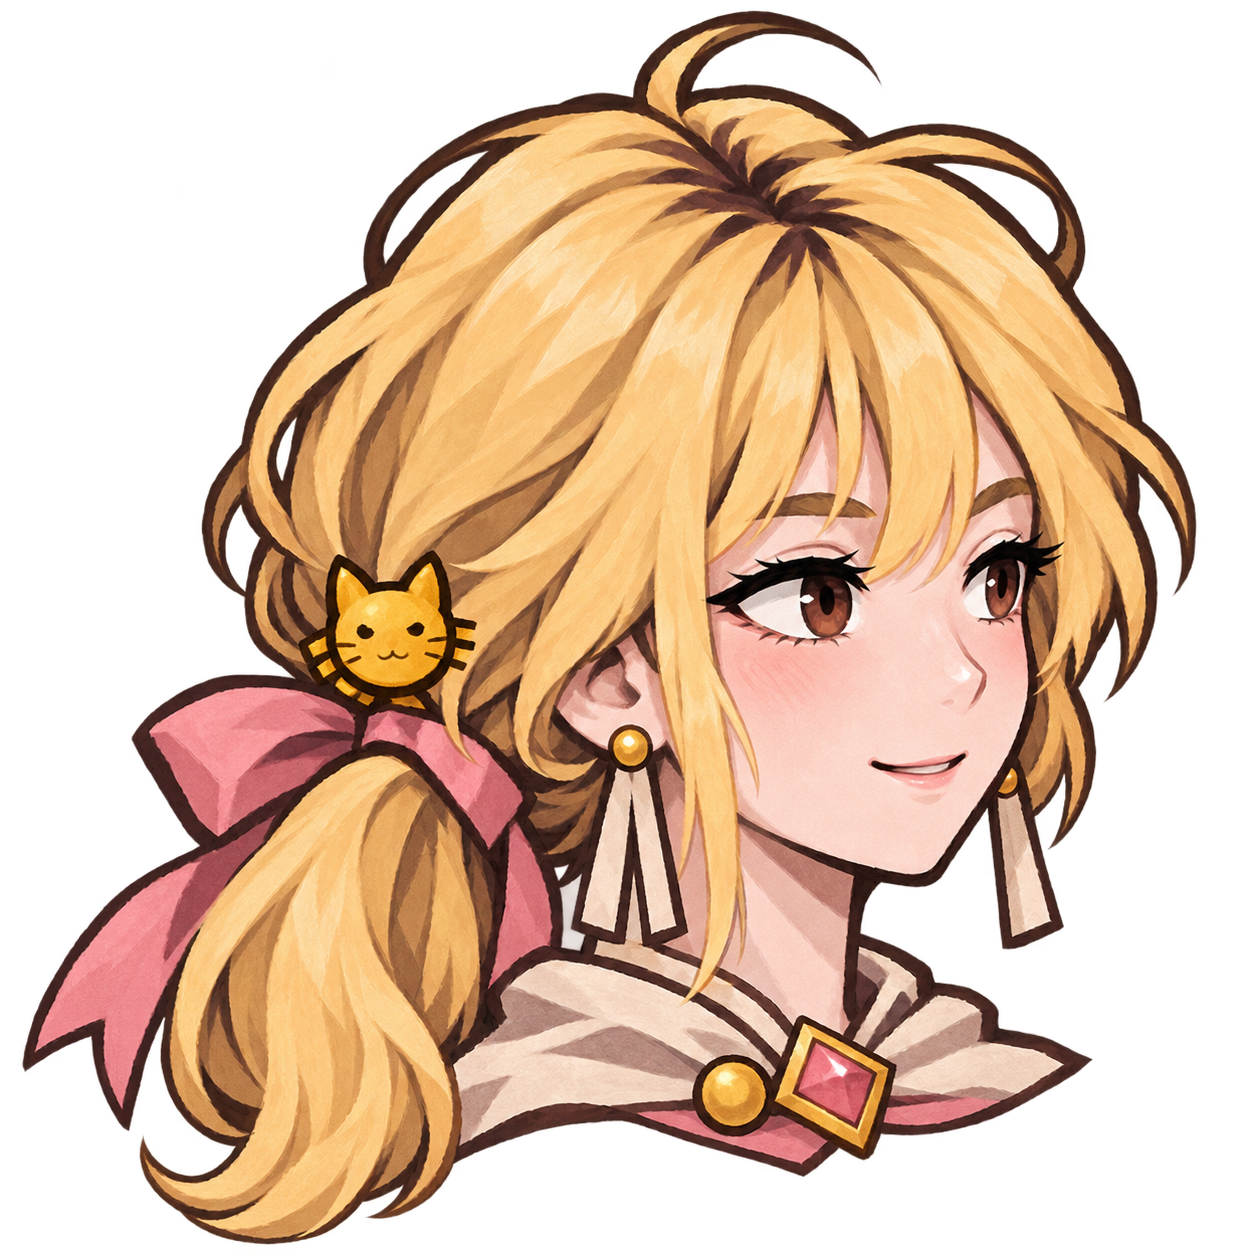
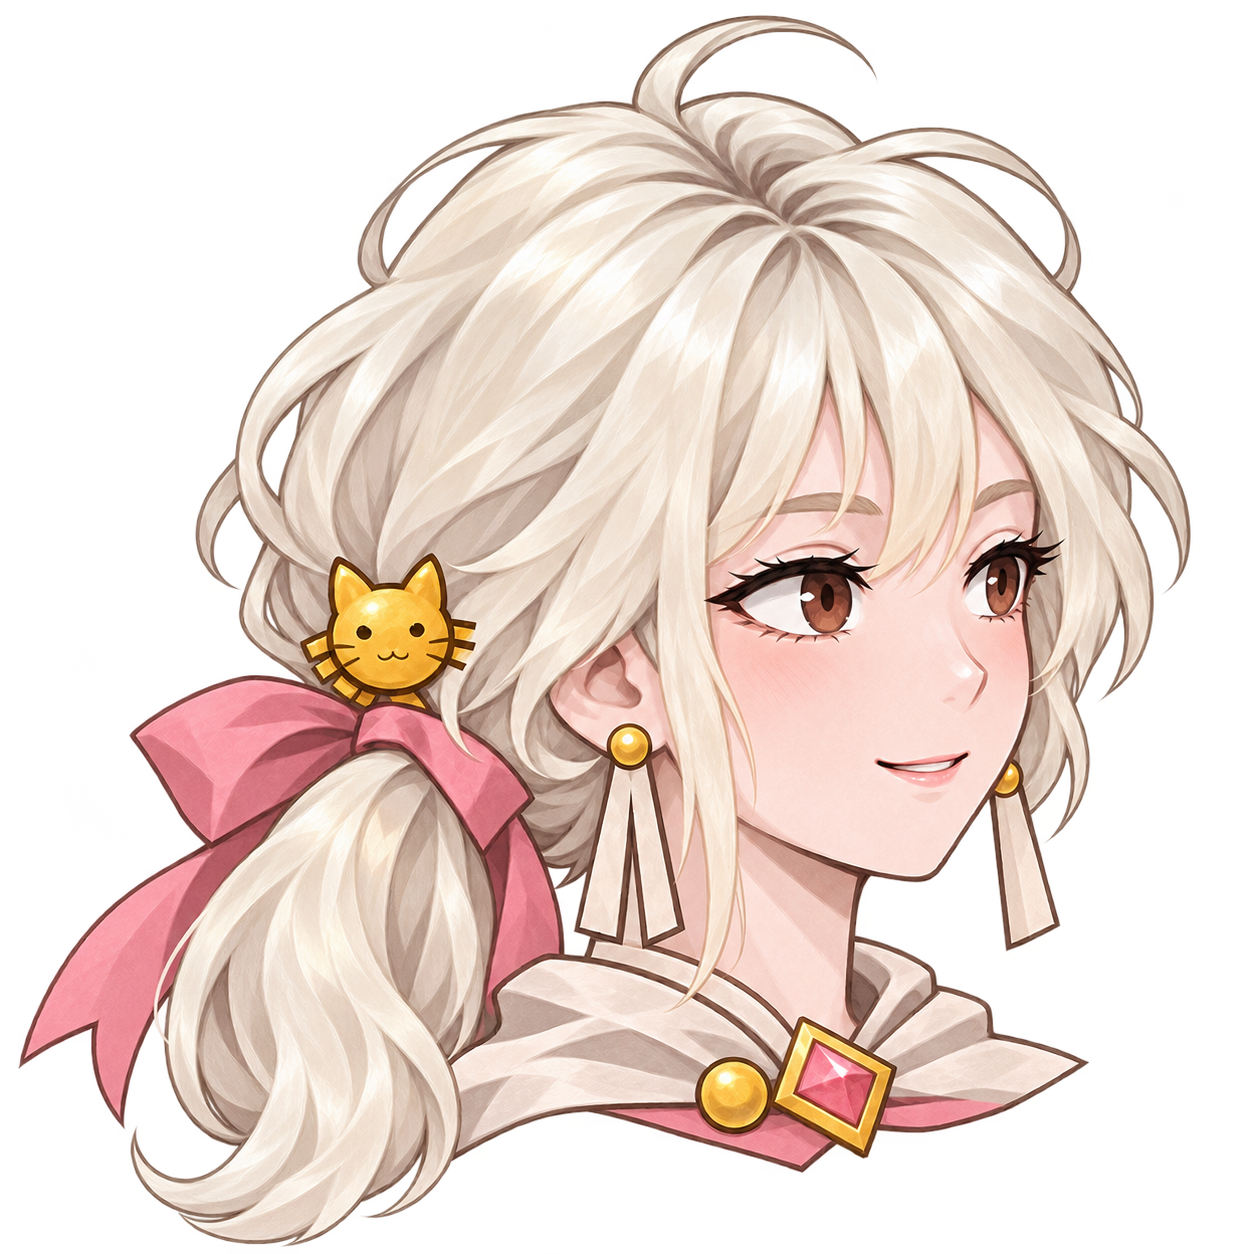
Polish platinum character art and add flying fireball effect

diff --git a/ShenshenCode/Visuals/LittleFireballVfx.cs b/ShenshenCode/Visuals/LittleFireballVfx.cs
@@ -1,0 +1,135 @@
+using System.Text.Json;
+using Godot;
+using MegaCrit.Sts2.Core.Entities.Creatures;
+using MegaCrit.Sts2.Core.Helpers;
+using MegaCrit.Sts2.Core.Nodes.Rooms;
+
+namespace Shenshen.ShenshenCode.Visuals;
+
+/// <summary>Visual only: the native attack command waits for arrival before dealing damage.</summary>
+public static class LittleFireballVfx
+{
+    public const float FlightDuration = 0.24f;
+
+    public static async Task Play(Creature attacker, Creature target)
+    {
+        var room = NCombatRoom.Instance;
+        var source = attacker.GetCreatureNode();
+        var receiver = target.GetCreatureNode();
+        // Headless simulations and previews without an active battle do not wait for VFX.
+        if (room == null || source == null || receiver == null || !room.IsInsideTree()) return;
+        var staff = source.Visuals.GetNodeOrNull<Sprite2D>(
+            "Visuals/HumanRig/Canvas/Part_torso/Part_arm_staff/Part_staff/Sprite");
+        var start = source.VfxSpawnPosition;
+        if (staff != null)
+        {
+            var rect = staff.GetRect();
+            start = staff.ToGlobal(rect.Position + rect.Size * new Vector2(0.5f, 0.14f));
+        }
+        var end = receiver.VfxSpawnPosition;
+        var projectile = new Node2D { Name = "ShenshenLittleFireball" };
+        var flame = new Sprite2D { Texture = CreateFlameTexture() };
+        flame.Scale = Vector2.One * (82f / flame.Texture.GetHeight());
+        flame.Rotation = (end - start).Angle() - Mathf.Pi / 4f;
+        var direction = (end - start).Normalized();
+        var trail = new Line2D
+        {
+            Width = 8f,
+            DefaultColor = new Color("ff9fb8"),
+            Points = [Vector2.Zero, -direction * 24f, -direction * 58f],
+            Gradient = new Gradient
+            {
+                Colors = [new Color(1f, 0.85f, 0.61f, 0.9f), new Color(1f, 0.4f, 0.65f, 0f)]
+            },
+            Antialiased = true
+        };
+        projectile.AddChild(trail);
+        projectile.AddChild(flame);
+        var impact = CreateImpact();
+        impact.Visible = false;
+        projectile.AddChild(impact);
+        var arrival = new TaskCompletionSource();
+        var container = room.CombatVfxContainer;
+        var arrived = false;
+        void CompleteOnExit() => arrival.TrySetResult();
+        void StartFlight()
+        {
+            projectile.GlobalPosition = start;
+            var trace = OS.GetCmdlineArgs().Contains("--shenshen-test", StringComparer.Ordinal);
+            if (trace) MainFile.Logger.Info($"LittleFireballVfx event=launched from={start} to={end}");
+            var tween = projectile.CreateTween();
+            tween.TweenProperty(projectile, "global_position", end, FlightDuration);
+            tween.TweenCallback(Callable.From(() =>
+            {
+                flame.Visible = false;
+                trail.Visible = false;
+                impact.Visible = true;
+                arrived = true;
+                if (trace) MainFile.Logger.Info("LittleFireballVfx event=arrived");
+                arrival.TrySetResult();
+            }));
+            // The hit flash fades independently while the native damage/hit reaction resolves.
+            tween.TweenProperty(impact, "scale", Vector2.One * 1.8f, 0.18f);
+            tween.Parallel().TweenProperty(impact, "modulate:a", 0f, 0.18f);
+            tween.TweenCallback(Callable.From(projectile.QueueFree));
+        }
+        // AddChildSafely can defer insertion. The host may exit before the projectile
+        // ever enters the tree, in which case neither its Ready nor TreeExiting fires.
+        container.TreeExiting += CompleteOnExit;
+        projectile.TreeExiting += CompleteOnExit;
+        projectile.Ready += StartFlight;
+        try
+        {
+            if (!container.IsInsideTree()) return;
+            container.AddChildSafely(projectile);
+            await arrival.Task;
+        }
+        finally
+        {
+            if (GodotObject.IsInstanceValid(container)) container.TreeExiting -= CompleteOnExit;
+            if (GodotObject.IsInstanceValid(projectile))
+            {
+                projectile.Ready -= StartFlight;
+                projectile.TreeExiting -= CompleteOnExit;
+                if (!arrived && !projectile.IsQueuedForDeletion()) projectile.QueueFree();
+            }
+        }
+    }
+
+    private static Texture2D CreateFlameTexture()
+    {
+        // Read the same region as the rig, so higher resolution atlas replacements stay aligned.
+        using var rig = JsonDocument.Parse(Godot.FileAccess.GetFileAsString(ShenshenVisuals.RigPath));
+        var part = rig.RootElement.GetProperty("parts").EnumerateArray()
+            .Single(value => value.GetProperty("id").GetString() == "magic");
+        var region = part.GetProperty("region").EnumerateArray().Select(value => value.GetSingle()).ToArray();
+        return new AtlasTexture
+        {
+            Atlas = ResourceLoader.Load<Texture2D>(ShenshenVisuals.AssetDirectory + "/" + part.GetProperty("file").GetString()),
+            Region = new Rect2(region[0], region[1], region[2], region[3]),
+            FilterClip = true
+        };
+    }
+
+    private static Node2D CreateImpact()
+    {
+        var impact = new Node2D { Name = "HitFlash" };
+        var ring = new Line2D
+        {
+            Width = 3.5f, DefaultColor = new Color("ffe9b1"), Antialiased = true,
+            Points = Enumerable.Range(0, 25).Select(index =>
+                Vector2.FromAngle(index * Mathf.Tau / 24f) * 16f).ToArray()
+        };
+        impact.AddChild(ring);
+        for (var index = 0; index < 6; index++)
+        {
+            var direction = Vector2.FromAngle(index * Mathf.Tau / 6f);
+            impact.AddChild(new Line2D
+            {
+                Width = 4f, DefaultColor = new Color("ffb5ca"), Antialiased = true,
+                Points = [direction * 20f, direction * 31f]
+            });
+        }
+        return impact;
+    }
+}

diff --git a/ShenshenCode/Visuals/ShenshenVisuals.cs b/ShenshenCode/Visuals/ShenshenVisuals.cs
@@ -24,7 +24,8 @@ public sealed class ShenshenVisuals
     private static readonly ConditionalWeakTable<NCreatureVisuals, ShenshenVisuals> Controllers = new();
     private readonly NCreatureVisuals _root = new();
     private readonly Node2D _human = new() { Name = "HumanRig" };
-    private readonly Node2D _canvas = new() { Name = "Canvas" };
+    // Painted parts keep smooth linear sampling regardless of the host scene's filter.
+    private readonly Node2D _canvas = new() { Name = "Canvas", TextureFilter = CanvasItem.TextureFilterEnum.Linear };
     private readonly Node2D _catCanvas = new() { Name = "CatCanvas", Visible = false };
     private readonly AnimationPlayer _player = new() { Name = "AnimationPlayer" };
     private readonly Dictionary<string, RigPart> _parts;
@@ -155,7 +156,12 @@ public sealed class ShenshenVisuals
         var path = part.File.StartsWith("res://", StringComparison.Ordinal) ? part.File : part.Directory + "/" + part.File;
         var source = GD.Load<Texture2D>(path) ?? throw new InvalidOperationException("Cannot load Shenshen part: " + path);
         Texture2D texture = part.Region is { Length: 4 } region
-            ? new AtlasTexture { Atlas = source, Region = new Rect2(region[0], region[1], region[2], region[3]) }
+            ? new AtlasTexture
+            {
+                Atlas = source,
+                Region = new Rect2(region[0], region[1], region[2], region[3]),
+                FilterClip = true
+            }
             : source;
         var sprite = new Sprite2D
         {

diff --git a/ShenshenCode/Character/Shenshen.cs b/ShenshenCode/Character/Shenshen.cs
@@ -66,8 +66,8 @@ public class Shenshen : PlaceholderCharacterModel
     // resolve to imported PNG textures rather than AtlasTexture resources.
     public override string CustomIconTexturePath => ShenshenVisuals.AssetDirectory + "/avatar.png";
     public override string CustomIconOutlineTexturePath => ShenshenVisuals.AssetDirectory + "/avatar.png";
-    public override string CustomCharacterSelectIconPath => ShenshenVisuals.AssetDirectory + "/revised-design.png";
-    public override string CustomCharacterSelectLockedIconPath => ShenshenVisuals.AssetDirectory + "/revised-design.png";
+    public override string CustomCharacterSelectIconPath => ShenshenVisuals.AssetDirectory + "/select-icon.png";
+    public override string CustomCharacterSelectLockedIconPath => ShenshenVisuals.AssetDirectory + "/select-icon.png";
     public override string CustomMapMarkerPath => ShenshenVisuals.AssetDirectory + "/avatar.png";
     public override string CustomCharacterSelectBg => "res://Shenshen/scenes/character_select/shenshen_select_bg.tscn";
 }

diff --git a/ShenshenCode/Cards/LittleFireball.cs b/ShenshenCode/Cards/LittleFireball.cs
@@ -5,6 +5,7 @@ using MegaCrit.Sts2.Core.Localization.DynamicVars;
 using MegaCrit.Sts2.Core.Models;
 using MegaCrit.Sts2.Core.ValueProps;
 using Shenshen.ShenshenCode.Character;
+using Shenshen.ShenshenCode.Visuals;
 
 namespace Shenshen.ShenshenCode.Cards;
 
@@ -19,7 +20,9 @@ public sealed class LittleFireball : ShenshenCard
     {
         ArgumentNullException.ThrowIfNull(cardPlay.Target);
         await DamageCmd.Attack(DynamicVars.Damage.BaseValue).FromCard(this, cardPlay)
-            .Targeting(cardPlay.Target).Execute(choiceContext);
+            .Targeting(cardPlay.Target)
+            .AfterAttackerAnim(() => LittleFireballVfx.Play(Owner.Creature, cardPlay.Target))
+            .Execute(choiceContext);
     }
 
     // Prototype upgrade: follows the base game's Strike; not a confirmed design rule.

diff --git a/docs/windows-validation.md b/docs/windows-validation.md
@@ -139,3 +139,25 @@ UI 类型修复后再次完整运行 `./tools/test.ps1`，编译与打包退出 
 游戏已通过原生菜单保存并退出。最后运行 `tools/play-test.ps1 verify` 退出 0，**1026 个日常文件哈希全部不变**，`changes=[]`，隔离档 153 个测试文件。最新测试产物保留在游戏 mods，源代码/原创素材通过 Git 同步，存档和游戏程序集仍只留本机。
 
 本轮未打完首战、未验证奖励与长流程，未重新目视验收选人页布局、实机死亡/复活、真实双端联机或 Mac。休息点/商店角色、能量球、手势和卡图仍有原版/模板占位；这些不计入本轮战斗动画已完成范围。
+
+## 白金发、选人表情与飞行火球实测（2026-11-05—06）
+
+本轮仅按用户外观反馈细化，未实现并行讨论中的新卡牌数值。用户要求自然浅笑、白金发和较轻描边，保留少女 v5 体型、首版白皙肤色及自然长毛猫 v2。人形四张运行 PNG 已统一更新，选人按钮改为独立 2:3 肩上头像；此前 `approved-design.png` 保留为体型确认基准。人形 display_height 315→340（+7.94%）为本轮试调，猫世界高度仍为 250。大小参考用户提供的猎手截图，未声称实测得到两个角色完全相等的像素面积。
+
+| 阶段 | 本轮结果 |
+| --- | --- |
+| 设计依据 | 用户已提出白金发、自然浅笑和减轻描边；约 8% 显示放大为实现试调，未写成用户确认的精确比例。 |
+| 代码实现 | 人形显式线性过滤、AtlasTexture.FilterClip；小火球在原生 AfterAttackerAnim 回调中从实际杖端飞向目标中心，0.24 秒后原伤害结算，命中散光另行淡出。 |
+| 编译/打包/真实程序集回归 | 最终 `tools/test.ps1` 退出 0，Release publish、PCK 导入导出及测试编译通过，108 项通过；日志 `work/platinum-final-regression.log`。模型回归覆盖无 UI 的小火球结算，不能替代飞行画面。 |
+| 独立 GPU 检查 | 白金发、细描边和 340 显示高度下，少女/猫待机、眨眼、施法、攻击、受击、回待机与暂停遮罩正常；无底框或新增缺件/接缝。600×760、30 FPS、346 帧、11.533 秒新视频是独立 Godot 预览，不含独立飞行火球。 |
+| 实际游戏界面 | v0.111.0 专用档中目视验收白金发/描边/大小、选人全身立绘与近景按钮；在原首战截图中捕获飞行中的粉金火球，敌人 46→40 HP，费用 3→2，随后返待机。最终修复构建再次实测同一结算。 |
+
+火球使用真实动画杖端位置约 (542.5,486.0) 到敌人中心 (1440,668)，在原生 CombatVfxContainer 内继承层级。仅测试参数输出 `LittleFireballVfx event=launched` → `event=arrived`，随后 Attack finished → Idle started。最终日志为 `local/play-test/platinum-final-gui.log`；先前捕获飞行画面的日志为 `platinum-first-gui.log`，选人日志为 `platinum-selection-gui.log`。两次战斗均为同一专用档 A0/seed `0A07FSV82Z9G` 的战前恢复点，未改日常档。
+
+代码复核发现 AddChildSafely 可能 deferred：若宿主先退出，单独等待 Ready 会挂起。最终改为 Ready 回调启动飞行，统一等待到达或宿主/投射物退出，finally 解绑事件并清理未到达节点；独立引用本机程序集编译与整体回归通过。该退出边界未在游戏窗口主动复现，不把代码审查当作实机覆盖。
+
[1 lines of base64/hex data omitted]
+
+选人测试期间仅临时改名两份专用 current_run 保存文件，测试后已恢复，没有通过“放弃游戏”删除进度。最后通过菜单保存并退出，`tools/play-test.ps1 verify` 退出 0：1036 个日常文件哈希不变、changes=[]，隔离档 153 文件。1036 是用户普通游戏退出后重新捕获的本轮基准；前轮 1026 不作为本轮前后比较的基准。
+
+本轮无托管异常；最终游戏日志在主菜单资源预载后出现一条原生 `Invalid Task ID`，退出仍有 RID/资源未释放告警，与此前记录为同类提示，未完成同流程无模组基线归因。本轮未做长流程、首战胜利/奖励、死亡复活、真正双端多人或 Mac 验证；地图头像通过资源接口回归，未在最新白金素材下单独目视验收地图界面。

diff --git a/docs/character-art.md b/docs/character-art.md
@@ -25,7 +25,7 @@
 
 `rig.json` 的 z 只表示角色内部顺序，通过兄弟节点排列实现；实际 CanvasItem 的 Z 保持 0，统一继承战斗角色层。不能把负 z 直接写到 Sprite2D：本机战斗场景为 -10、前景特效为 -9，直接写入会让腿/披风沉到背景后，正 z 又会让头部越过暂停遮罩。该问题已在实际游戏中复现并修复。
 
-选人背景、头像、选人按钮和地图标记是独立资源，不能仅替换战斗形象后就认为所有入口都已更新。原游戏选人按钮和地图标记 getter 要求 CompressedTexture2D；BaseLib 只替换路径，不能给这些路径返回 AtlasTexture。UI 使用导入 PNG：头像为独立生成的 `avatar.png`，选人按钮为选定全身设计稿；自建选人背景使用普通 Control 场景。战斗分件内部可使用 AtlasTexture，不受上述 UI getter 限制。
+选人背景、头像、选人按钮和地图标记是独立资源，不能仅替换战斗形象后就认为所有入口都已更新。原游戏选人按钮和地图标记 getter 要求 CompressedTexture2D；BaseLib 只替换路径，不能给这些路径返回 AtlasTexture。UI 使用导入 PNG：头像为独立生成的 `avatar.png`，选人按钮现使用 2:3 肩上头像 `select-icon.png`；全身 `revised-design.png` 用于自建选人背景的普通 Control 场景。战斗分件内部可使用 AtlasTexture，不受上述 UI getter 限制。
 
 ## 素材来源与验证边界
 
@@ -48,3 +48,13 @@
 实机短动作的状态证据与独立 GPU 姿态视频各自记录，不能把独立录制说成游戏录像。当前游戏已保存退出，日常 1026 文件哈希未变；未完成首战胜利奖励、长流程、死亡/复活游戏实测、选人页布局的重新目视验收或真实双端联机，Mac 也待验证。返回主菜单和退出时仍有原生引擎告警，详见验证记录；本轮没有托管异常。
 
 休息点、商店角色、多人手势、能量球和过渡材质等仍继承模板资源；原版 Spine 专用低血量表现与液体覆盖等效果尚未适配。当前替换范围是战斗双形态、选人背景、头像/按钮和地图标记。
+
+## 白金发、选人表情与火球细化（2026-11-05—06）
+
+用户补充要求选人表情接近分件图左上角的自然浅笑、描边减轻、发色参考照片改为更白的白金色；保留已确认体型和首版白皙肤色，猫形不改。通过内置 image_gen 同步编辑战斗图集、全身立绘与 HUD/地图头像，并新增独立选人肩上头像，避免把整个人物缩进原版头像按钮。提示与输入角色见 [制作记录](art-prompts-platinum-2026-11-05.json)，用户照片仍不入 Git。`approved-design.png` 保留此前金发的体型确认基准，当前运行素材以新版 `parts.png`、`revised-design.png`、`avatar.png` 和 `select-icon.png` 为准；本轮细化不代表用户重新确认了精确颜色数值。
+
+战斗少女等比例显示高度 315→340（约 +7.94%）是本轮对照用的原型调整，不改变分件间比例；猫形世界高度维持 250。核对导入资源为无损、无尺寸限制、无 mipmap，未发现有损压缩；原尺寸下头部仅约 48 像素高。人形显式使用平滑线性过滤、AtlasTexture 启用 FilterClip，减少区域边缘串采样，未用 nearest 或锐化着色器宣称提高原始细节。
+
+此前图集里的粉金光焰只在少女手边随动作出现，没有独立飞行攻击。现 `LittleFireballVfx` 从真实动画法杖端飞向敌人的原生特效中心，带拖尾和命中散光；本机 `AttackCommand.AfterAttackerAnim` 在攻击动作延迟后等待 0.24 秒飞行完成，再执行原伤害。命中散光另用 0.18 秒淡出；特效继承原生 CombatVfxContainer 的层级，不改变伤害、牌堆、随机状态。无战斗节点的模型回归立即返回，不引入等待。多人各客户端的实际表现仍须双端验证。
+
+本轮编译打包和既有 108 项真实程序集回归通过，图集透明空隙检查通过。独立 GPU 检查覆盖少女待机/眨眼/施法/攻击/受击、自然猫动作和暂停遮罩；实际游戏结果另记 [Windows 验证记录](windows-validation.md)，不能将模型回归或独立预览当作实机验收。

diff --git a/README.md b/README.md
@@ -13,7 +13,7 @@
 
 70 HP、每回合 3 能量、正常抽牌 5 张；玩家永久持有少女 10 张与猫 10 张基础牌。变形只弃掉当前形态专属手牌，从另一形态的实际卡牌中补抽同样数量，保留原实例及其升级、费用等状态。牌堆界面暂显示两套牌总数；共享牌参与当前活跃循环是原型选择。燃烧之血、遗物/药水池、卡图、休息点与商店等场景表现仍为占位。资源打包使用独立临时 Godot 工程。
 
-人形已确认 P1「樱粉圣光」少女 v5：白粉金、高腰修长、自然腿部厚度；猫形已确认自然长毛猫 v2，去掉人类发型、衣物和装饰。战斗外观使用真正的 Godot 分件动画，包含待机、眨眼、少女施法/攻击/受击、猫挥爪/受击、倒下和双形态切换；选人背景、头像和地图标记独立替换。制作来源与各阶段验证边界见 [角色美术与动画](docs/character-art.md)。
+人形已确认 P1「樱粉圣光」少女 v5：白粉金、高腰修长、自然腿部厚度；猫形已确认自然长毛猫 v2，去掉人类发型、衣物和装饰。按后续反馈改为白金发、自然浅笑和较轻描边，少女等比例显示高度试增约 8%，猫形大小保持不变。战斗外观使用真正的 Godot 分件动画，包含待机、眨眼、少女施法/攻击/受击、猫挥爪/受击、倒下和双形态切换；小火球从杖端飞向敌人，到达后结算伤害。选人背景、肩上头像按钮、HUD 和地图标记独立替换。制作来源与各阶段验证边界见 [角色美术与动画](docs/character-art.md)。
 
 ## 使用
 
@@ -35,7 +35,7 @@ Windows：
 
 默认只向 `dist/` 输出，不改 Steam 设置、游戏安装目录或存档。`dist/Shenshen/` 包含本模组，`dist/BaseLib/` 包含匹配的运行依赖。游戏退出后，才可按需将这两个目录复制到游戏的 mods 目录进行测试。
 
-Mac 交接版本已通过编译与资源检查；本轮 Windows 已通过编译打包、108 项真实程序集/Godot 回归（45 项玩法、47 项动画、16 项 UI/透明资源）。确认稿已在专用游戏窗口实测：少女完整外形与白皙肤色、施法/攻击/受击，猫的完整四足/尾巴、攻击/受击，双向变形、动作回到待机及暂停遮罩。已修复实机发现的分件负 Z 遮挡，并保存退出；1026 个日常文件哈希无变化。当前保存沿用原版战前/房间边界，不恢复战斗中途快照；更长流程、双端多人和 Mac 新代码仍待验证。完整范围见 [Windows 验证记录](docs/windows-validation.md)，日常协作见 [开发说明](docs/development.md)。
+Mac 交接版本已通过编译与资源检查；本轮 Windows 已通过编译打包、108 项真实程序集/Godot 回归（45 项玩法、47 项动画、16 项 UI/透明资源）。确认稿已在专用游戏窗口实测：少女完整外形与白皙肤色、施法/攻击/受击，猫的完整四足/尾巴、攻击/受击，双向变形、动作回到待机及暂停遮罩。已修复实机发现的分件负 Z 遮挡；最新一轮又实测白金发、较轻描边、新选人立绘/头像和火球飞行/伤害，保存退出后 1036 个日常文件哈希无变化。当前保存沿用原版战前/房间边界，不恢复战斗中途快照；更长流程、双端多人和 Mac 新代码仍待验证。完整范围见 [Windows 验证记录](docs/windows-validation.md)，日常协作见 [开发说明](docs/development.md)。
 
 ## 锁定版本
 
